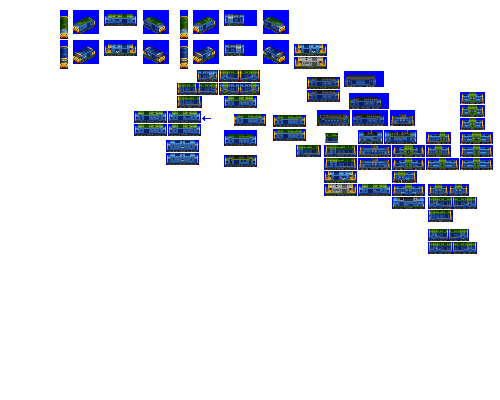
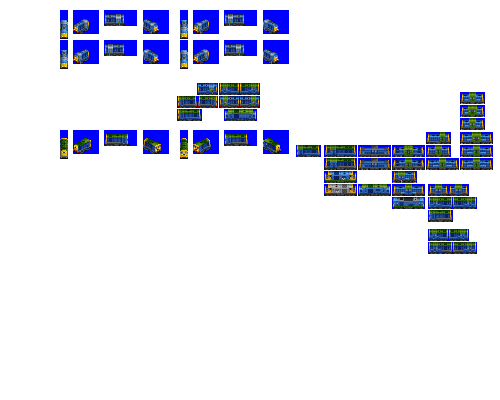
Change: sprites complete for Yillen

Changed region(s): [[0.12, 0.03, 0.84, 0.42], [0.12, 0.03, 0.33, 0.18], [0.51, 0.03, 0.57, 0.09]]

diff --git a/src/vehicles/yillen.py b/src/vehicles/yillen.py
@@ -12,11 +12,12 @@ def main(roster_id):
         replacement_consist_id="vanguard",  # this line is a strange 10/8 infill, and ends here
         power=2200,
         gen=4,
+        intro_date_offset=-2,  # let's be a little earlier for this one
         default_livery_extra_docs_examples=[
             ("COLOUR_PALE_GREEN", "COLOUR_GREY"),
             ("COLOUR_PINK", "COLOUR_WHITE"),
         ],
-        sprites_complete=False,
+        sprites_complete=True,
     )
 
     consist.add_unit(
@@ -27,7 +28,7 @@ def main(roster_id):
         type=DieselEngineUnit, weight=80, vehicle_length=5, spriterow_num=1
     )
 
-    consist.description = """CABBAGE."""
+    consist.description = """The universe is asymmetric. And so are these."""
     consist.foamer_facts = """BR Class 15, BR Class 16"""
 
     return consist
